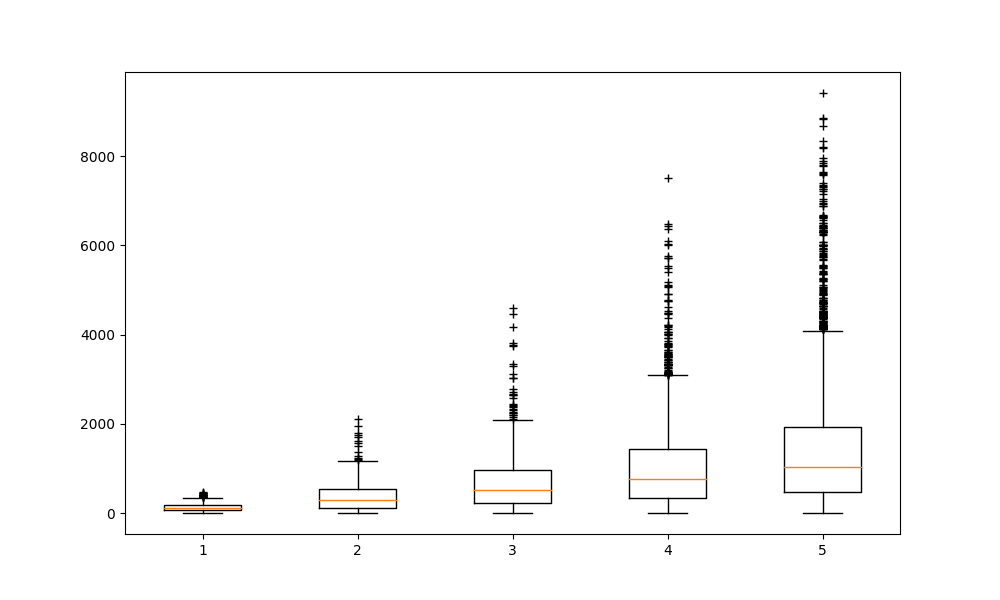
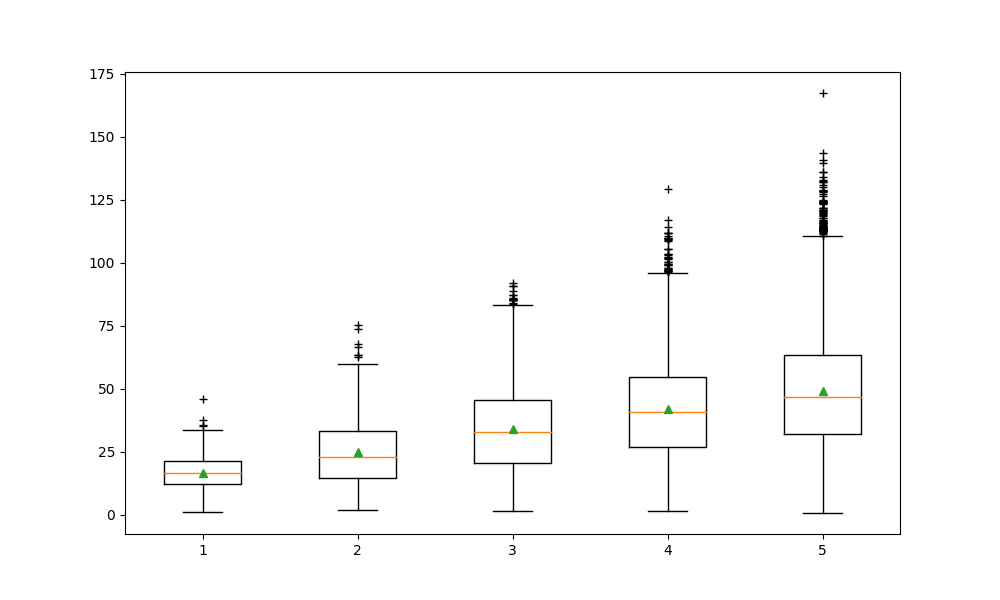
箱ひげ図を2020年のバージョンで作り直した，平均値も表示した

diff --git a/graph/create_boxplot.py b/graph/create_boxplot.py
@@ -4,6 +4,7 @@ import os
 import json
 import random
 from networkx.algorithms.cluster import generalized_degree
+import math
 
 from networkx.classes import graph
 
@@ -38,7 +39,8 @@ def make_generation2descendants_from_networkx_graph(Graph_nx, node, generation=1
     return generation2descendants
 
 def calc_distance_for_node_to_node(start_node_x, start_node_y, end_node_x, end_node_y):
-    return pow(start_node_x-end_node_x, 2) + pow(start_node_y-end_node_y, 2)
+    d = pow(start_node_x-end_node_x, 2) + pow(start_node_y-end_node_y, 2)
+    return math.sqrt(d)
 
 def get_node_x_and_y_from_graph_attrs(graph_json, node_name):
     for v in graph_json["elements"]["nodes"]:
@@ -130,16 +132,16 @@ def make_generation2distance_node_to_descendants(mml_version, node_name):
 
 def create_distance_boxplot(generation2distance, file_name="generation_and_distance"):
     plt.figure(figsize=(10,6))
-    plt.boxplot(generation2distance.values(), labels=generation2distance.keys(), sym="+")
+    plt.boxplot(generation2distance.values(), labels=generation2distance.keys(), sym="+", showmeans=True)
     plt.savefig("research_data/box_plot/" + file_name + ".png")
 
 
 if __name__ == "__main__":
-    node_names = get_node_random_from_sfdp_graph("2019_03_29", sample_num=135)
+    node_names = get_node_random_from_sfdp_graph("2020-06-18", sample_num=135)
     # 子孫との距離を測定
     generation2distance = dict()
     for n in node_names:
-        d = make_generation2distance_node_to_ancestors("2019_03_29", n)
+        d = make_generation2distance_node_to_ancestors("2020-06-18", n)
         for k,v in d.items():
             if not k in generation2distance.keys():
                 generation2distance[k] = v
@@ -149,7 +151,7 @@ if __name__ == "__main__":
     # 祖先との距離を測定
     generation2distance = dict()
     for n in node_names:
-        d = make_generation2distance_node_to_descendants("2019_03_29", n)
+        d = make_generation2distance_node_to_descendants("2020-06-18", n)
         for k,v in d.items():
             if not k in generation2distance.keys():
                 generation2distance[k] = v
